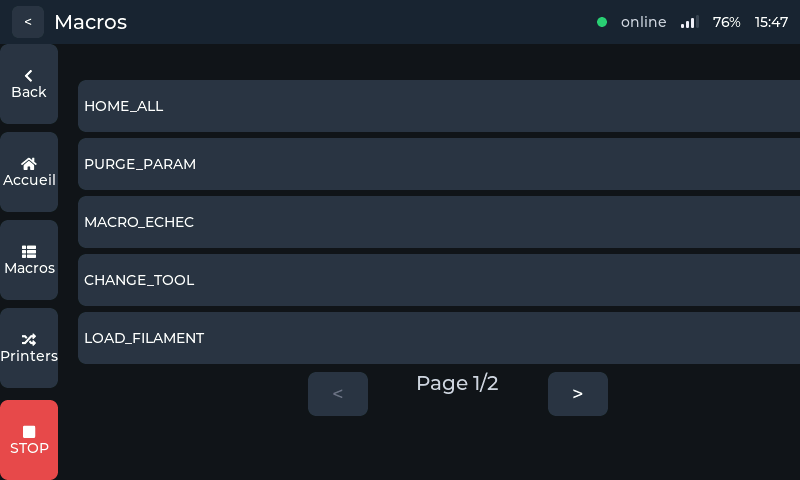
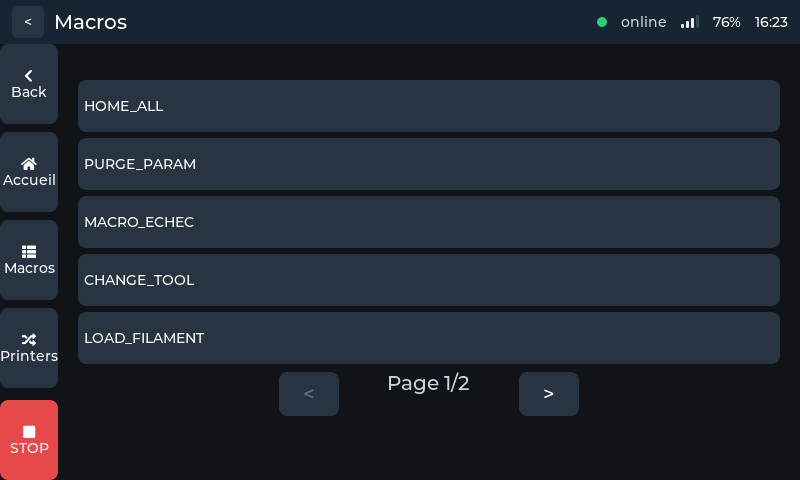
fix(ui): largeur de contenu et alignement du clavier numerique
Trois defauts visuels reperes sur les captures publiees.

1. Macros et Configuration debordaient a droite -- LARGEUR_CONTENU y valait
   800 au lieu de 742. Les 800 px sont ceux de la dalle ; la zone de contenu
   commence APRES le rail (RAIL_LARGEUR = 58, habillage.c). Consequence sur
   Macros : BOUTON_LARGEUR = 760 pour une zone large de 742, boutons rognes au
   bord de la dalle (mesure : ils occupaient x=78..799 la ou Fichiers et USB
   s'arretent a 779) et pagination centree sur 457 au lieu de 429. Sur
   Configuration : les boutons ancres a droite (Edit, WiFi, calcules depuis
   LARGEUR_CONTENU - MARGE) etaient pousses 58 px trop loin et coupes.

   Audit complet : 23 des 25 ecrans utilisaient deja 742, ces deux-la etaient
   les seuls a 800. Les _Static_assert existants ne pouvaient pas les attraper,
   ils comparent a LARGEUR_CONTENU lui-meme.

   Verifie apres correction : Macros rend exactement 78..779, identique a
   Fichiers ; Edit et WiFi rentrent dans le panneau.

2. Derniere rangee du clavier numerique desalignee. La carte standard de LVGL
   (LV_KEYBOARD_MODE_NUMBER) donne 5 unites aux quatre rangees, mais les trois
   premieres n'ont que 4 touches (3 inter-espaces) contre 5 (4 inter-espaces)
   pour la derniere : le debut de la colonne k vaut k*(W+2g)/5 en haut contre
   k*(W+g)/5 en bas, soit une derive de k*g/5. L'alignement exact demanderait
   des facteurs de largeur non entiers (16,05 pour une somme de 79, au-dela du
[…]

diff --git a/firmware/main/ui/widgets/clavier.c b/firmware/main/ui/widgets/clavier.c
@@ -74,6 +74,23 @@ static void appliquer_theme_sombre(lv_obj_t *clavier, lv_obj_t *textarea)
     lv_obj_set_style_bg_color(clavier, lv_color_hex(COULEUR_TOUCHE_PRESSEE), LV_PART_ITEMS | LV_STATE_PRESSED);
     lv_obj_set_style_bg_color(clavier, lv_color_hex(COULEUR_TOUCHE_PRESSEE), LV_PART_ITEMS | LV_STATE_CHECKED);
 
+    /* Espacement inter-colonnes REDUIT (defaut du theme LVGL : ~11 px).
+     *
+     * Pourquoi : la carte numerique standard de LVGL (lv_keyboard.c, mode
+     * LV_KEYBOARD_MODE_NUMBER) donne 5 unites de large a ses quatre rangees,
+     * mais les trois premieres n'ont que 4 touches (donc 3 inter-espaces) et
+     * la derniere en a 5 (donc 4). A largeur totale W et espacement g, le
+     * debut de la colonne k vaut k*(W+2g)/5 en haut contre k*(W+g)/5 en bas :
+     * les bords verticaux derivent de k*g/5. Avec g=11 cela faisait 2/4/7 px,
+     * visible a l'oeil sur la derniere rangee.
+     *
+     * L'alignement EXACT n'est pas atteignable autrement : il demanderait des
+     * facteurs de largeur non entiers (16,05 pour une somme de 79, au-dela du
+     * maximum de 15 d'un lv_buttonmatrix_ctrl_t). Seul g=0 annulerait la
+     * derive, au prix de touches jointives -- mauvais compromis sur une dalle
+     * tactile. g=6 la ramene a ~1/2/4 px en gardant la separation visuelle. */
+    lv_obj_set_style_pad_column(clavier, 6, LV_PART_MAIN);
+
     /* Textarea : champ sombre, texte clair, bordure discrete. */
     lv_obj_set_style_bg_color(textarea, lv_color_hex(COULEUR_CHAMP), LV_PART_MAIN);
     lv_obj_set_style_text_color(textarea, lv_color_hex(COULEUR_TEXTE_PRINCIPAL), LV_PART_MAIN);

diff --git a/firmware/main/apps/klipper/ecrans/ecran_macros.c b/firmware/main/apps/klipper/ecrans/ecran_macros.c
@@ -28,7 +28,13 @@
 #include "habillage.h"
 #include "source_etat.h"
 
-#define LARGEUR_CONTENU 800
+/* 742, PAS 800 : la zone de contenu commence APRES le rail (RAIL_LARGEUR = 58,
+ * voir habillage.c) -- les 800 px sont ceux de la dalle, pas ceux dont cet
+ * ecran dispose. Avec 800, BOUTON_LARGEUR valait 760 pour une zone large de
+ * 742 : les boutons debordaient de 20 px a droite (rognes au bord de la dalle)
+ * et la pagination etait centree sur 457 au lieu de 429. Constate en produisant
+ * les captures du README. Les 23 autres ecrans utilisaient deja 742. */
+#define LARGEUR_CONTENU 742
 #define HAUTEUR_CONTENU 436
 
 #define MARGE 20

diff --git a/firmware/main/apps/klipper/ecrans/ecran_configuration.c b/firmware/main/apps/klipper/ecrans/ecran_configuration.c
@@ -18,7 +18,11 @@
 #include "navigation.h"
 #include "source_reglages.h"
 
-#define LARGEUR_CONTENU 800
+/* 742, PAS 800 : meme correction que ecran_macros.c -- la zone de contenu
+ * commence APRES le rail (RAIL_LARGEUR = 58, voir habillage.c). Avec 800, les
+ * boutons ancres a droite (Edit, WiFi, calcules depuis LARGEUR_CONTENU - MARGE)
+ * etaient pousses 58 px trop loin et rognes au bord de la dalle. */
+#define LARGEUR_CONTENU 742
 #define HAUTEUR_CONTENU 436
 
 #define MARGE 24
